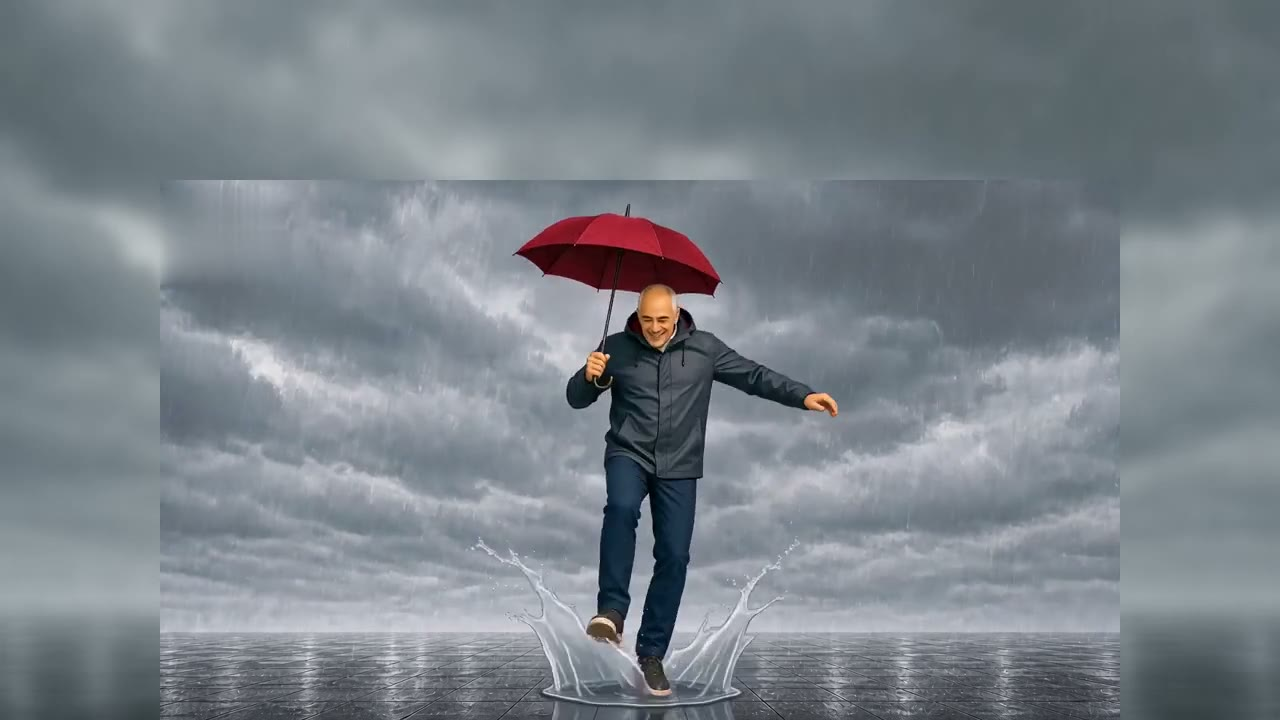
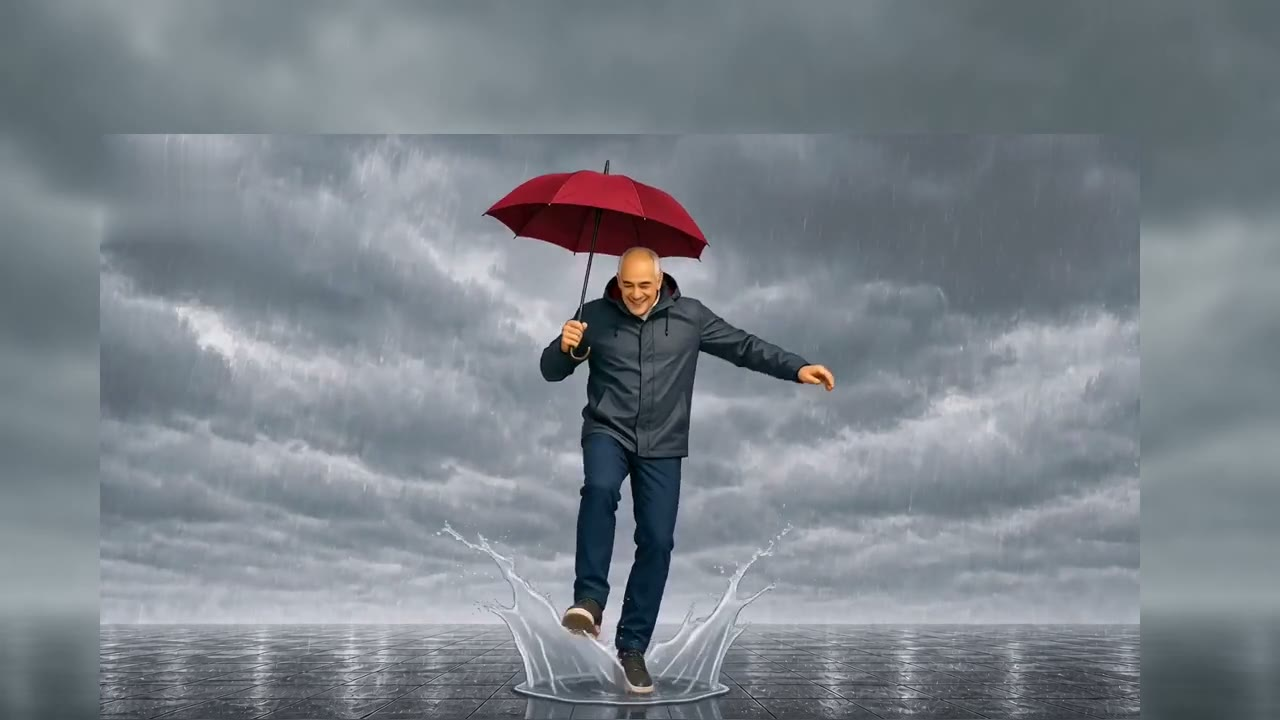
Make Easter egg dancer taller

diff --git a/app.js b/app.js
@@ -16,7 +16,7 @@ const outfitSceneBackgroundBasePath = "assets/outfit-scenes/v2/backgrounds/";
 const outfitSceneCharacterBasePath = "assets/outfit-scenes/v2/characters/";
 const outfitSceneAssetVersion = "20260608-01";
 // Replace these files and bump this version when updating the Easter egg video.
-const easterEggAssetVersion = "20260609-03";
+const easterEggAssetVersion = "20260609-04";
 const easterEggDanceVideo = {
   src: "assets/easter-eggs/marc-dancing-rain.mp4",
   poster: "assets/easter-eggs/marc-dancing-rain-poster.jpg",

diff --git a/index.html b/index.html
@@ -551,6 +551,6 @@
       crossorigin=""
     ></script>
     <script src="https://unpkg.com/lucide@latest/dist/umd/lucide.min.js"></script>
-    <script src="app.js?v=20260609-01"></script>
+    <script src="app.js?v=20260609-02"></script>
   </body>
 </html>